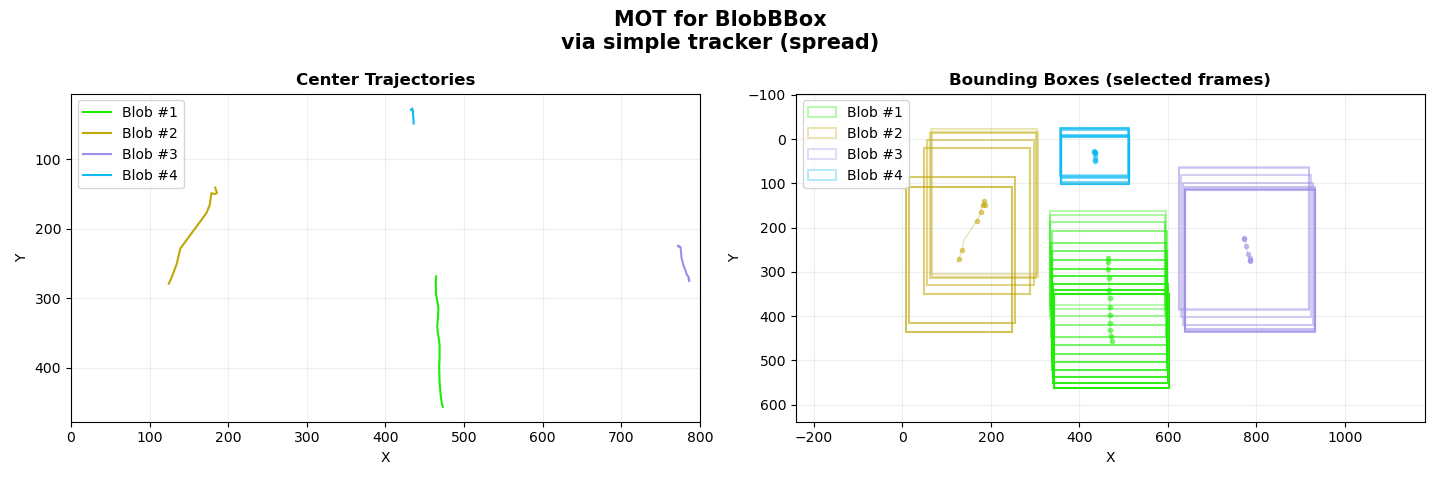
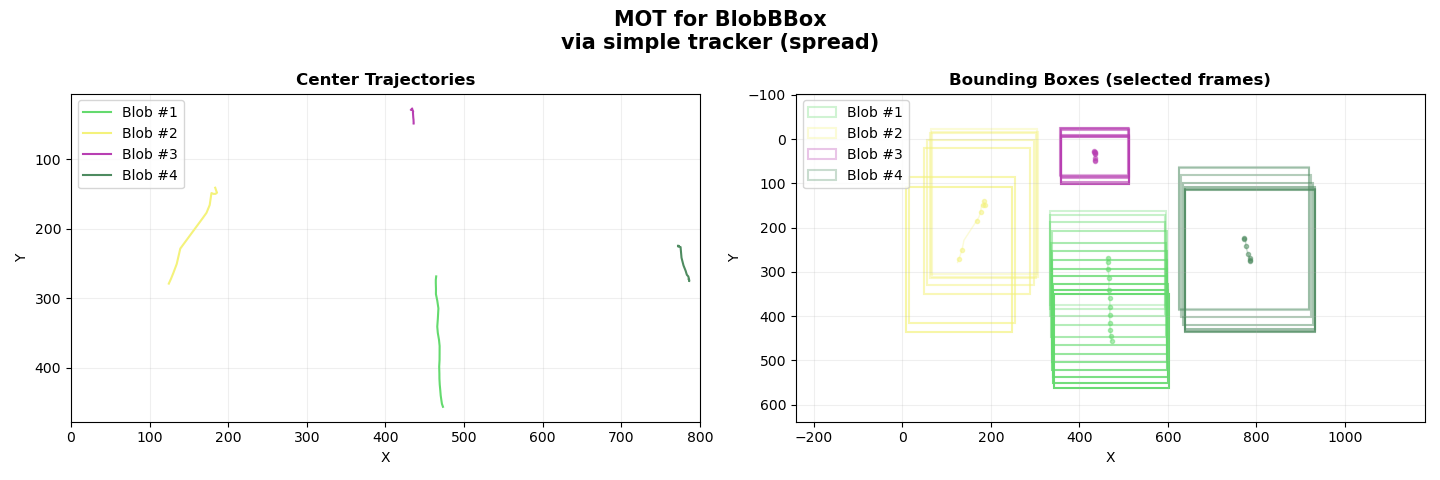
implement IoU tracker

Changed region(s): [[0.625, 0.25, 0.9375, 0.8125], [0.5625, 0.3438, 0.5938, 0.375], [0.5625, 0.2188, 0.5938, 0.25]]

diff --git a/data/draw_tracks.py b/data/draw_tracks.py
@@ -12,6 +12,7 @@ Usage:
 Available plot keys:
   simple_spread, simple_naive, simple_bytetrack_spread, simple_bytetrack_naive
   bbox_spread, bbox_naive, bbox_bytetrack_spread, bbox_bytetrack_naive
+  simple_iou_spread, simple_iou_naive, bbox_iou_spread, bbox_iou_naive
 """
 
 import matplotlib.pyplot as plt
@@ -70,6 +71,32 @@ PLOT_CONFIG = {
         'title': 'MOT for BlobBBox\nvia ByteTrack (dense)',
         'csv': 'blobs_bbox_bytetrack_naive.csv',
         'out': 'mot_bbox_bytetrack_naive.png',
+        'xlim': [100, 450],
+    },
+    # IoU tracker plots - SimpleBlob
+    'simple_iou_spread': {
+        'title': 'MOT for SimpleBlob\nvia IoU tracker (spread)',
+        'csv': 'blobs_iou_spread.csv',
+        'out': 'mot_simple_iou_spread.png',
+        'xlim': [0, 800],
+    },
+    'simple_iou_naive': {
+        'title': 'MOT for SimpleBlob\nvia IoU tracker (dense)',
+        'csv': 'blobs_iou_naive.csv',
+        'out': 'mot_simple_iou_naive.png',
+        'xlim': [100, 450],
+    },
+    # IoU tracker plots - BlobBBox
+    'bbox_iou_spread': {
+        'title': 'MOT for BlobBBox\nvia IoU tracker (spread)',
+        'csv': 'blobs_bbox_iou_spread.csv',
+        'out': 'mot_bbox_iou_spread.png',
+        'xlim': [0, 800],
+    },
+    'bbox_iou_naive': {
+        'title': 'MOT for BlobBBox\nvia IoU tracker (dense)',
+        'csv': 'blobs_bbox_iou_naive.csv',
+        'out': 'mot_bbox_iou_naive.png',
         'xlim': [100, 450],
     },
 }
